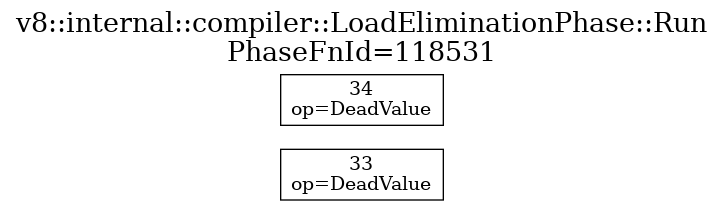
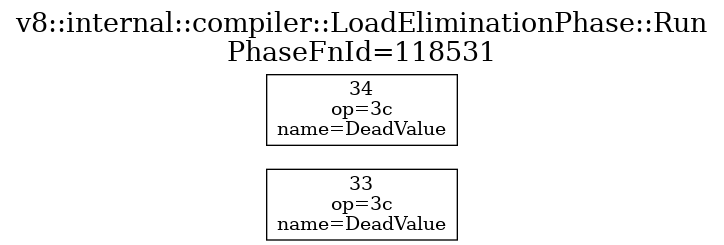
Updated PNGs

Changed region(s): [[0.0, 0.0293, 0.9724, 0.6146], [0.3646, 0.6732, 0.6381, 0.9951]]

diff --git a/IRAnalyzers/draw_phase_graphs.py b/IRAnalyzers/draw_phase_graphs.py
@@ -225,10 +225,13 @@ def add_node_to_graph(dot, node_id, node_lookup, phase_node_ids):
         label = f"{node_id}\\n<missing>"
         shape = "ellipse"
     else:
+        opcode = node.get("opcode", "")
         name = node.get("mnemonic", "")
         label = f"{node_id}"
+        if opcode != "":
+            label += f"\\nop={opcode}"
         if name != "":
-            label += f"\\nop={name}"
+            label += f"\\nname={name}"
         shape = "box" if node_id in phase_node_ids else "ellipse"
 
     dot.node(str(node_id), label=label, shape=shape)
